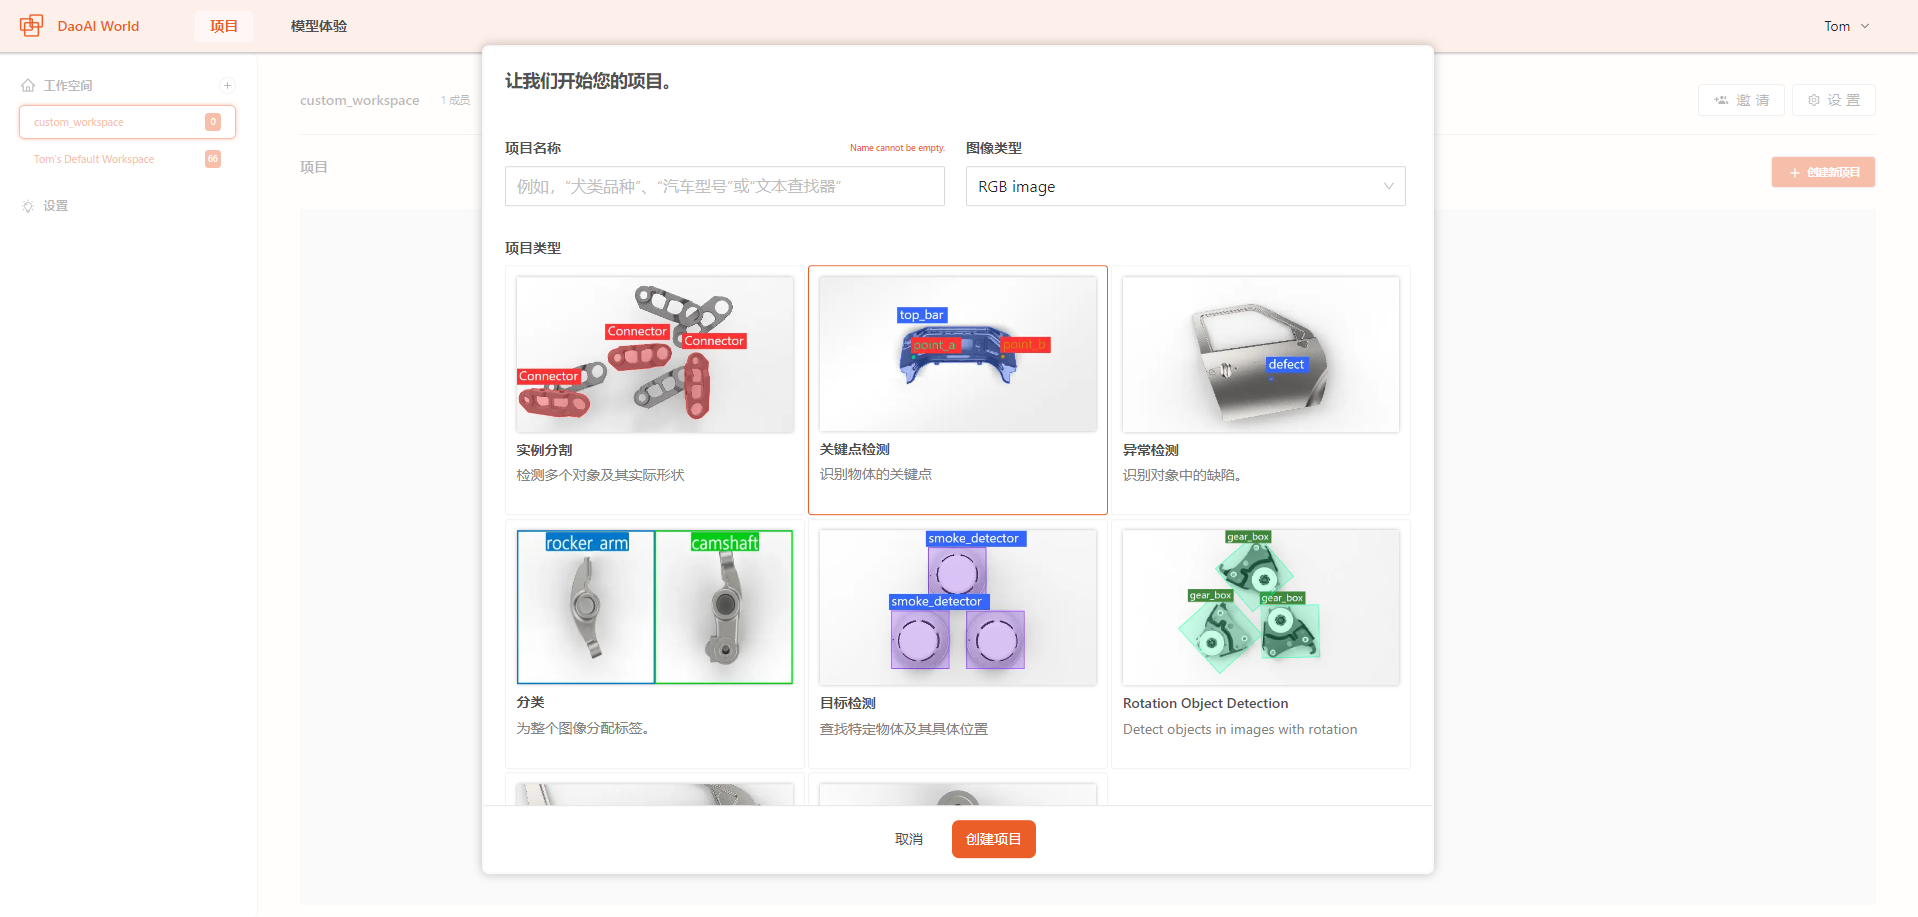
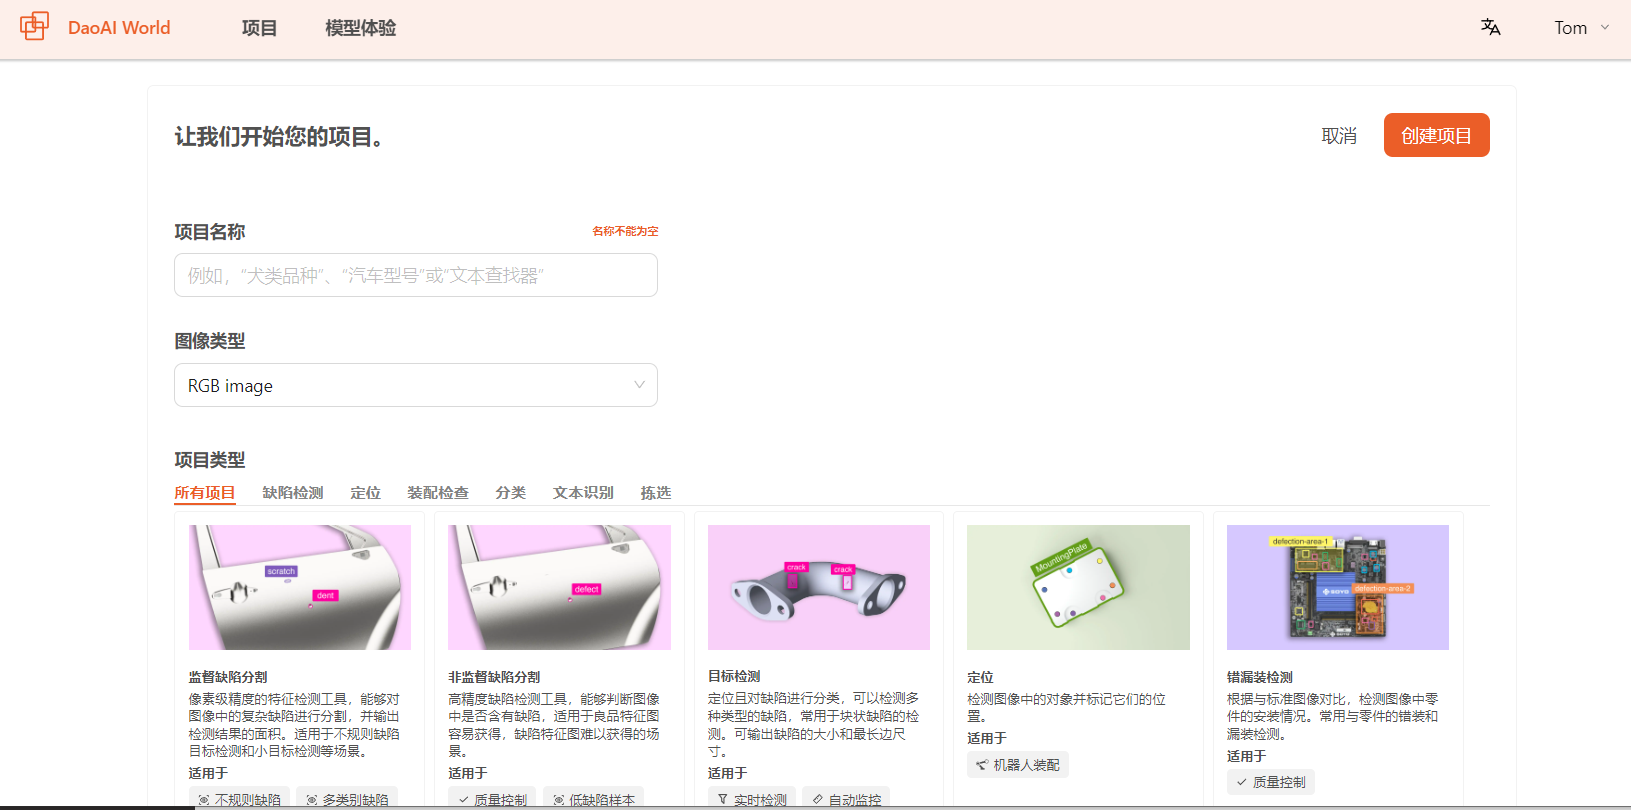
update for .7

diff --git a/docs/source/introduce/quick_start/release-notes.rst b/docs/source/introduce/quick_start/release-notes.rst
@@ -4,22 +4,23 @@
 .. contents:: 
     :local:
 
-2.24.6.0 版本更新说明：
+2.24.7.0 版本更新说明：
 --------------------------
 
-- 新增了DWM模型类型
-- 新增了自定义训练标签功能，可以一键去掉不想要训练的标签
-- 新增了训练剩余时间显示，可以帮助您更好的掌握训练所需的时间
-- 新增了数据集的搜索和筛选功能，可以根据文件名进行搜索，或者训练集，测试集，验证集进行筛选
-- 新增了自定义标签颜色，现在可以随意更改标签以及标注轮廓的颜色显示
-- 新增了自动/手动数据集管理方式，可以选择任意图片加入训练，测试或者验证集，也可以自动分配
-- 新增了通过2D工业相机收集图像的功能，需要下载DaoAI Preview软件，并通过局域网连接，即可实时采集相机的数据，用于标注或者推理
-- 新增了智能标注的三种边缘模式，简单，正常，和复制。对应不同的边缘细节
-- 新增了标签选择器的拖拽功能，以往该窗口可能会阻挡标注区域，现在可以自由拖拽，避免标注时的遮挡
-- 新增了高分辨率图像切片标注功能，可以将图片的切割后再标注，这样能更好的标注图片中的细节
-- 新增了高分辨率图像切片预处理，可以将图片的切割代替压缩，在训练时保留完整的图像细节
-- 新增了标注快捷键的提示，帮助用户快速的了解标注快捷键
-- 新增了推理工作区的置信度调节，再查看验证集时可以更好的查看模型的在不同置信度的表现
+- 全新的创建项目界面
+- 新增了演示项目，可以使用演示项目，并在工作空间中获得指导
+- 新增了图像显示设置，能够帮助用户在标注中调整图像设置，提高标注效率
+- 新增了实时显示识别结果和标注结果比较，更好的分辨识别和标注结果的区别
+- 新增了定位模型，用于检测图像中的对象并标记它们的位置，适用于机器人装配等多种工业应用
+- 新增了错漏装检测模型，根据与标准图像对比，检测图像中零件的安装情况。常用与零件的错装和漏装检测
+- 新增了分类模型在标注时，能够标注“背景”标签，表示图中无其他物件，仅有背景
+- 新增了OCR模型能够专注于文本识别项目的语言，用户能够选择所需识别的语言，提高效率和准确率
+- 新增了定义决策标准，可以选择最符合您模型判断要求的决策标准，以便在模型推理时更好地过滤检测结果
+- 新增了最大增强大小选项，可以调整图像增强的次数，以创建更多的训练样本。更大的版本训练时间更长，但通常会获得更好的模型性能
+- 新增了从上一个记录点开始训练，推荐从之前的训练运行中开始，以加快训练速度并提高准确性。如果您已经在此项目上成功训练了模型，这个选项是最好的
+- 新增了模型推理显示，显示推理时间和训练的显卡类型，帮助用户更好的了解识别速度
+
+.. TODO 截图暂时没有中文的
 
 细节信息可以通过我们网页右上角的更新日志查看
 

diff --git a/docs/source/data/manage/start.rst b/docs/source/data/manage/start.rst
@@ -16,9 +16,15 @@
             :width: 800
             :align: center
 
+        .. tip::
+            **从其他项目导入** 的方式现在支持导入多边形标注，自动转化成边界框。
+
+
         .. warning:: 
             请注意，由于系统限制，图片大小不能超过50MB。且单次上传图片建议小于1000张，单次上传图片数量过多可能会导致上传失败。
             
+
+
 
 标签管理
 ~~~~~~~~~~~~~~
@@ -117,6 +123,18 @@
 ------------
 
         在DaoAI World中，您可以使用标注工具对图像进行标注。按照训练项目费雷的不同，您可以使用不同的工具对图像进行标注。
+
+        标注时，可以使用右下角的 **图像显示设置** ，调整图像的显示，让标注更方便。
+
+        .. image:: Images/image_display_setting.png
+                :scale: 100%
+                :align: center
+
+        .. image:: Images/image_display_setting_adjust.png
+                :scale: 100%
+                :align: center
+        
+        常用的标注工具有：
 
             .. image:: Images/annoTool0.png
                 :scale: 100%

diff --git a/docs/source/deploy/deploy_device/index.rst b/docs/source/deploy/deploy_device/index.rst
@@ -55,6 +55,22 @@
 
     同时，您也可以通过调整右侧的 ``置信度阈值`` 来过滤过低置信度的识别结果。
 
+对比测试模型识别和标注效果
+~~~~~~~~~~~~~~~~~~~~~~~~
+
+    在上侧点击 **同时显示标准图像和模型预测** ，可以切换不同的置顶图层：标注和模型预测。
+
+    .. image:: Images/compare_annotate.png
+        :width: 800
+        :align: center
+
+    点击 **更改标签样式** ，更换颜色后可以同时比较标注和模型预测的结果。
+
+    .. image:: Images/change_color.png
+        :width: 800
+        :align: center
+
+
 在其他应用上部署模型
 ---------------------------------------------
 

diff --git a/docs/source/data/start_project/index.rst b/docs/source/data/start_project/index.rst
@@ -30,6 +30,10 @@
     
     完成类别信息添加后，点击 **创建项目** 以完成项目的创建。
 
+    在创建 **OCR** 项目时，系统会询问：那种字典类型会是文本识别的语言？
+        .. image:: images/create_ocr_project.png
+            :align: center
 
+    在这里，根据项目的具体需求，选择OCR模型识别的语言，或者输入特殊字符，用于特殊语言或者文本的识别支持。
 
 
